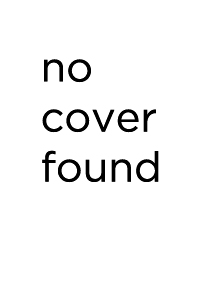
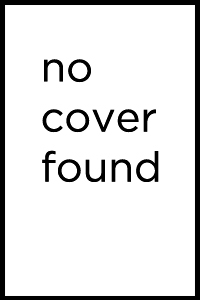
fixed code for retrieving book covers from db; now able to use default cover images.
next:

test the cover update function, test the update function using Douban Book API, write an updater for all book cover in the database.

Changed region(s): [[0.0, 0.0, 1.0, 1.0]]

diff --git a/library/webapp/query.py b/library/webapp/query.py
@@ -1,3 +1,8 @@
+from urllib2 import urlopen
+import urllib
+import json
+
+from django.conf import settings
 from django.db import connection
 
 from webapp import models
@@ -6,6 +11,7 @@ from webapp import models
 
 def run_query(query):
     print "running query: %s" % query
+    print
     cursor = connection.cursor()
     cursor.execute(query)
     result = ()
@@ -17,6 +23,7 @@ def run_query(query):
         print e
 
     print ("query result: ", result)
+    print
 
     return result
 
@@ -32,12 +39,15 @@ def get_book_info(keyword):
 
     query = 'select '
     need_join = 0
-    title_at = -1
-    cover_at = -1
+    title_at = None
+    cover_at = None
     title_indicator = ''
     cover_indicator = ''
     count = 0
     columns= []
+    book_cover_config = models.WebappConfiguration.objects.filter(name = 'book_cover_api_config')
+
+    cover_id = models.Readerware.objects.filter(barcode = keyword).values('rowkey')[0]['rowkey']
 
     if rows:
         for item in rows:
@@ -78,8 +88,8 @@ def get_book_info(keyword):
     if cover_indicator:
         cover = values[cover_at]
 
-    #else:
-        #use default cover
+    if not cover:
+        cover = get_book_cover_default()
 
 
     content = dict(zip(columns, values))
@@ -92,3 +102,79 @@ def get_book_info(keyword):
     result = {'content': content, 'title': title, 'cover': cover}
 
     return result
+
+
+def get_book_cover_default():
+
+    query_result = query_result = models.WebappConfiguration.objects.filter(name = 'book_cover_api_config')
+    
+    return query_result.values('value')[0]['value'] + query_result.values('value_1')[0]['value_1']
+
+
+def get_book_cover(keyword):
+    #need test - not functioning as expected
+    print 'finding book cover of: %s' % keyword
+    print
+    query_result = models.WebappConfiguration.filter(name = 'book_cover_api_config')
+
+    try:
+        result = models.BookCover.objects.filter(book_id = keyword).values('image_url')[0]['image_url']
+
+    except Exception, e:
+        print e
+
+        #default image
+        print 'image not found - using default image'
+        result = get_book_cover_default()
+
+    return result
+
+
+def update_book_cover(keyword):
+    request = ''
+    image_url = ''
+    file_name = ''
+    file_dir = ''
+
+    query_result = models.WebappConfiguration.filter(name = 'book_cover_api_config')
+
+    file_dir = query_result.values('value')[0]['value']
+
+    item = models.Readerware.objects.filter(isbn = keyword)
+
+    book_id = item.values('rowkey')[0]['rowkey']
+
+    all_api = models.WebappConfiguration.objects.filter(name__icontains = 'book_cover_api').values()
+
+    for api in all_api:
+        if api[1] and not image_url:
+            request = api[1] + keyword + api[2]
+
+            try:
+                image_url = json.loads(urlopen(request).read())[api[3]]
+
+            except KeyError:
+                print 'cannot find image / json key does not match'
+                image_url = ''
+
+            except Exception, e:
+                print e
+                image_url = ''
+
+    if image_url:
+
+        file_name = image_url.split('/')[-1]
+        file_dir += file_name
+
+        try:
+            urllib.urlretrieve(image_url, file_dir)
+
+        except Exception, e:
+            print e
+
+            file_name = None
+
+
+        models.BookCover(book_id = book_id, image_dir = file_dir).save()
+
+    return
